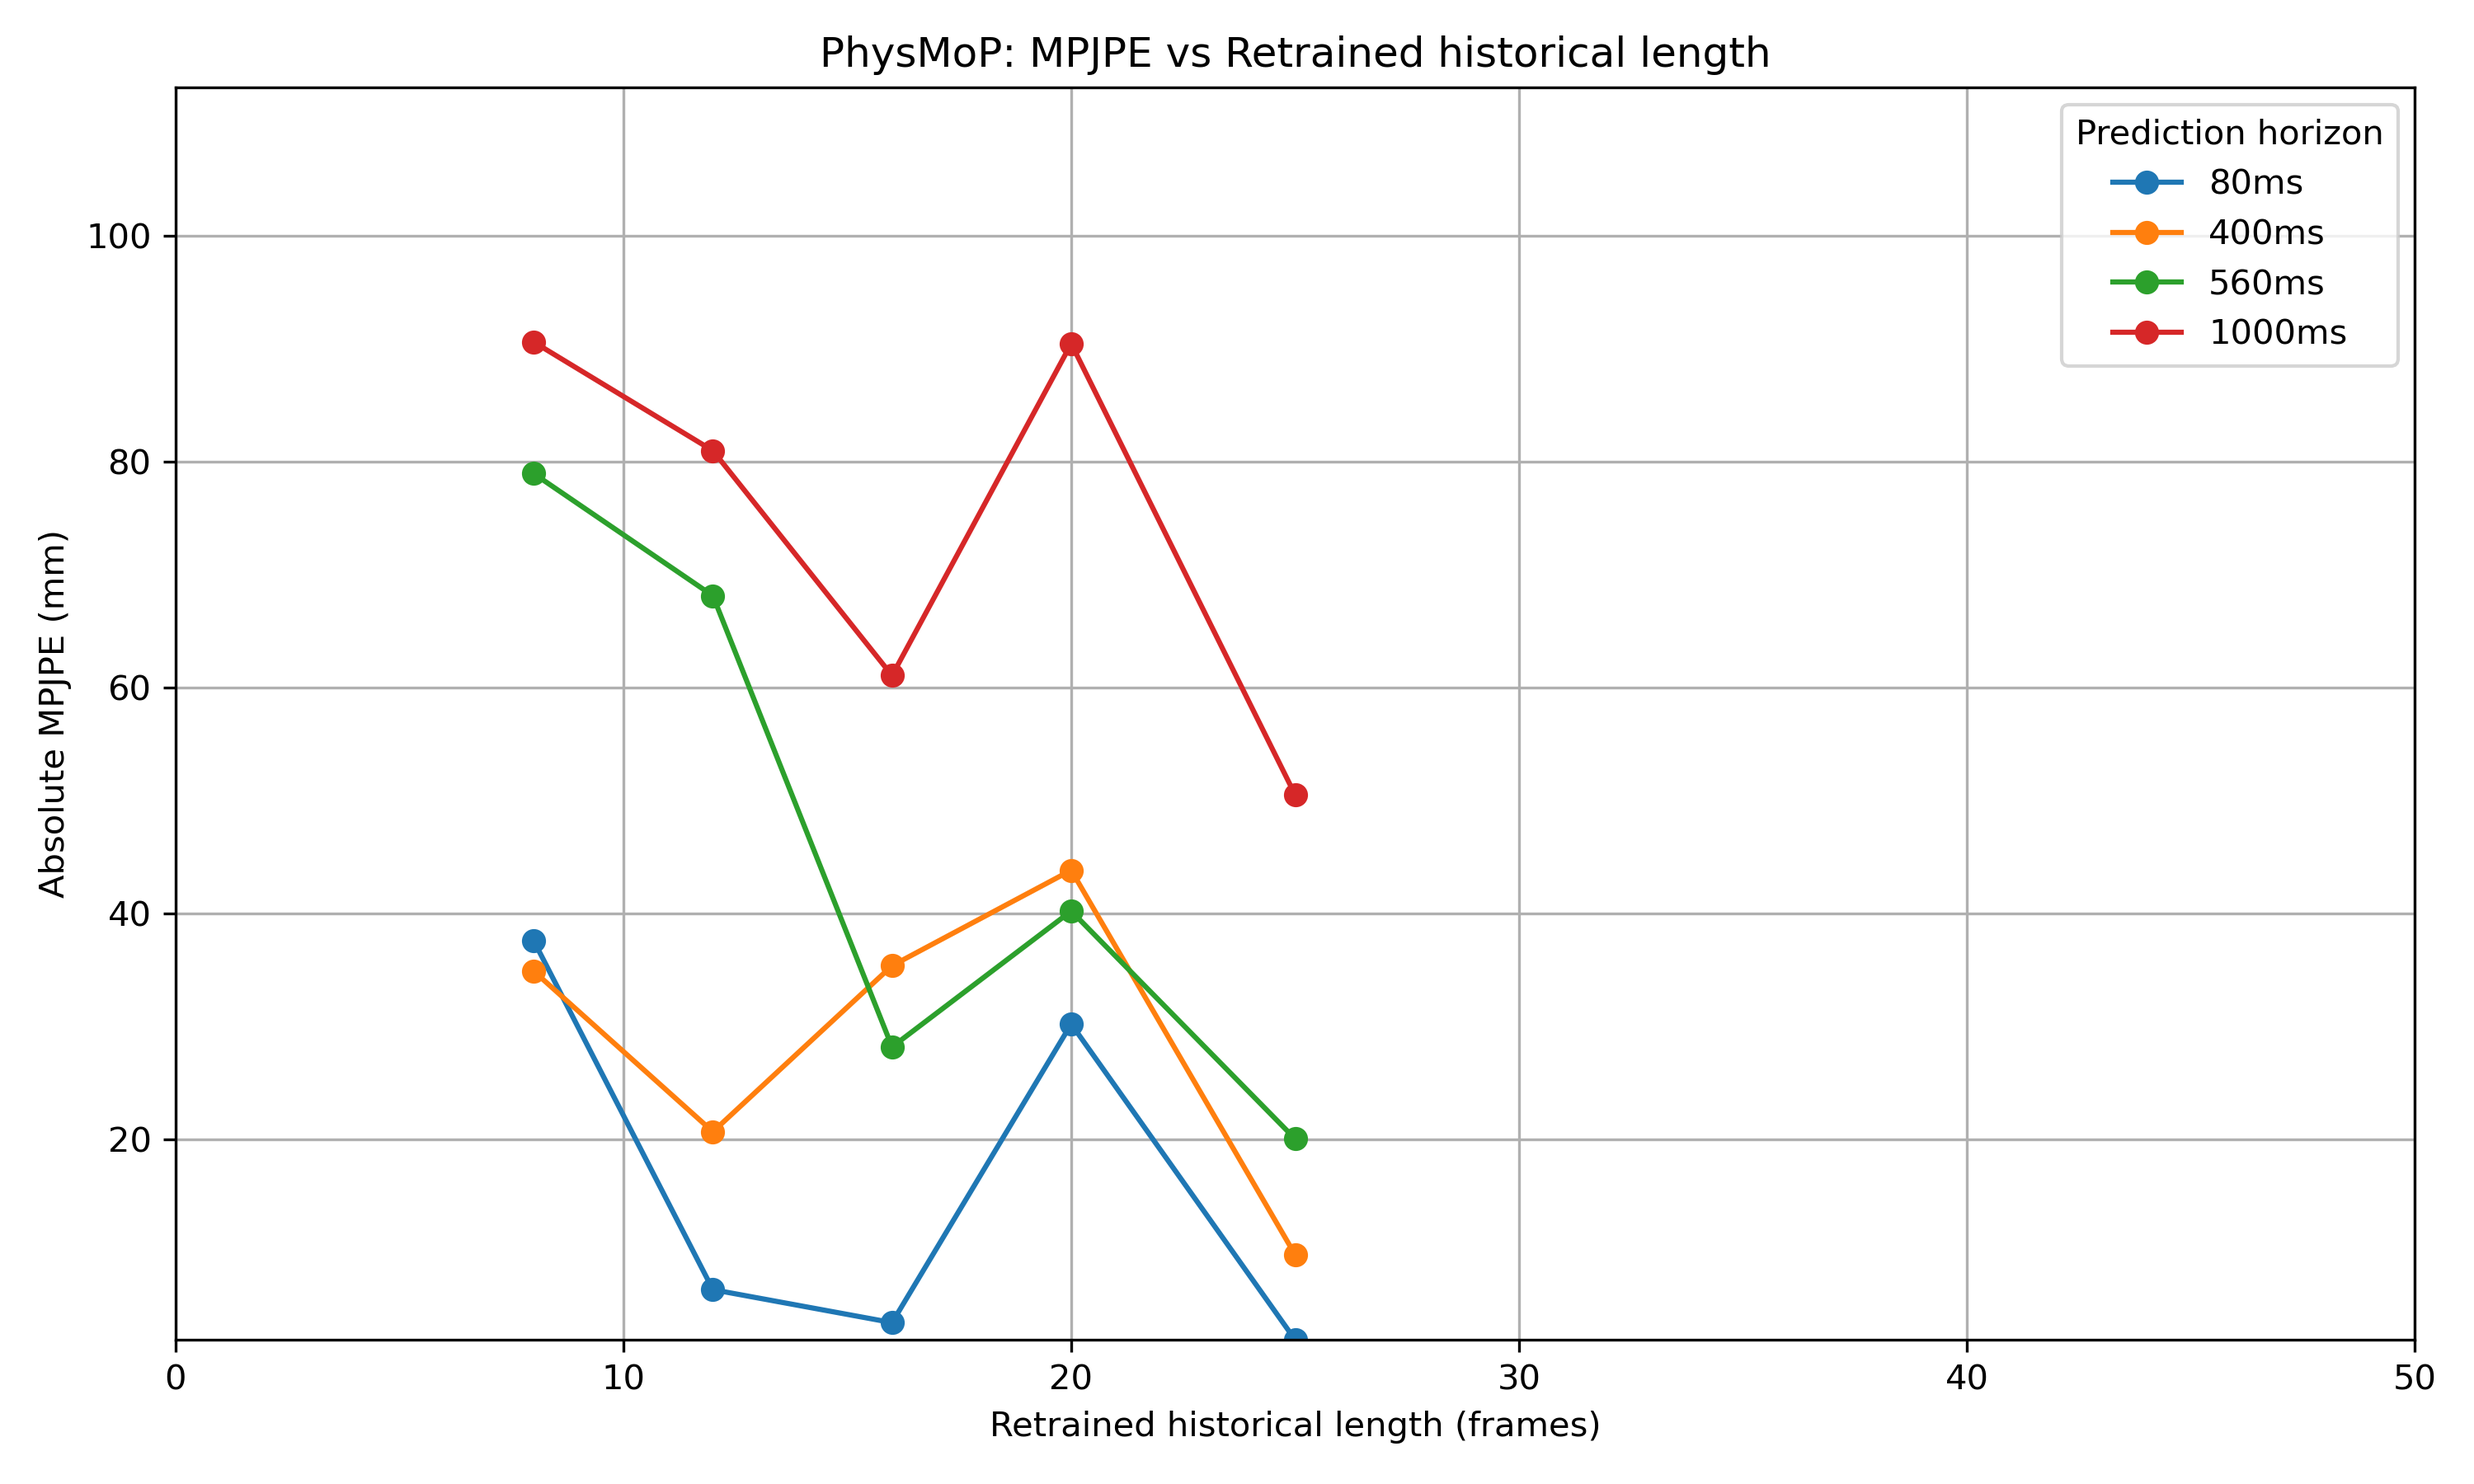
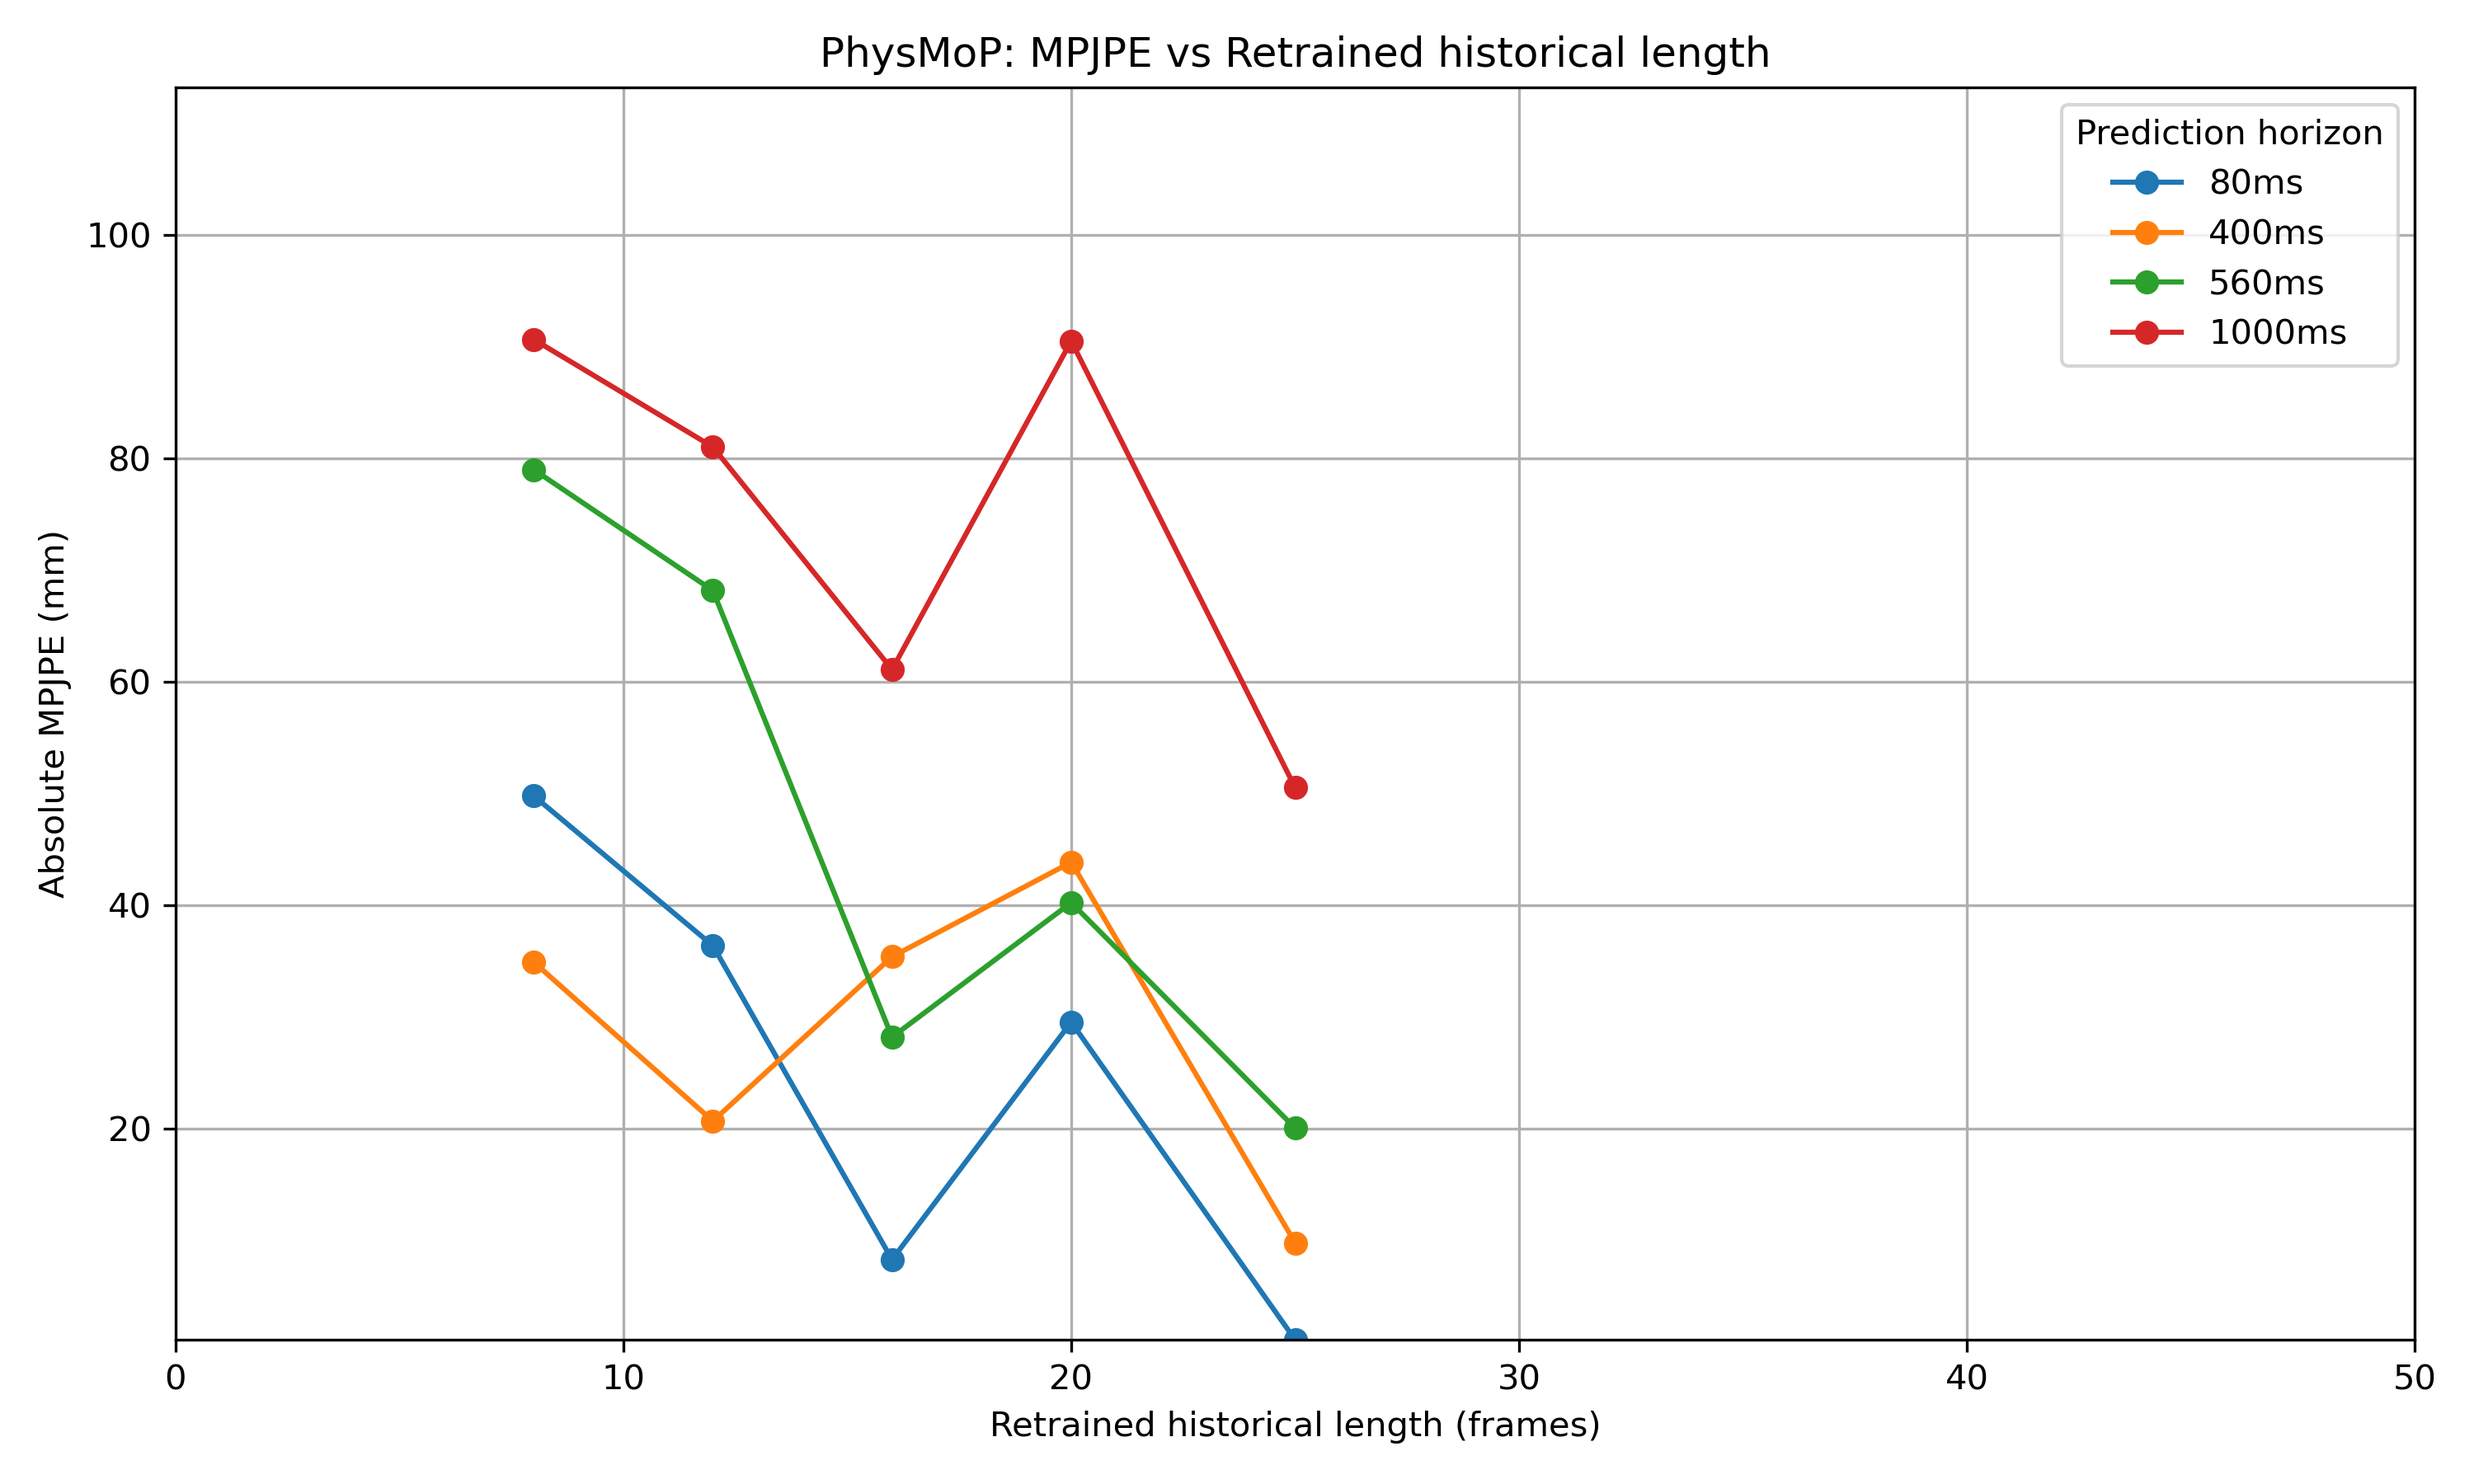
Do it correct, part 2

diff --git a/exps/run/eval_different_lengths.py b/exps/run/eval_different_lengths.py
@@ -35,8 +35,8 @@ def get_physmop_metrics_at_latest_timestep(path, length):
     upper = parse_physmop_data(path, "upper body")
     lower = parse_physmop_data(path, "lower body")
     # Select columns for the 4 time horizons
-    upper = upper[:, [1, 3, 4, 7]]
-    lower = lower[:, [1, 3, 4, 7]]
+    upper = upper[:, [0, 3, 4, 7]]
+    lower = lower[:, [0, 3, 4, 7]]
     combined = np.mean([upper, lower], axis=0)  # shape: (length, 4)
     return combined[length-1]  # last timestep for given length
 
